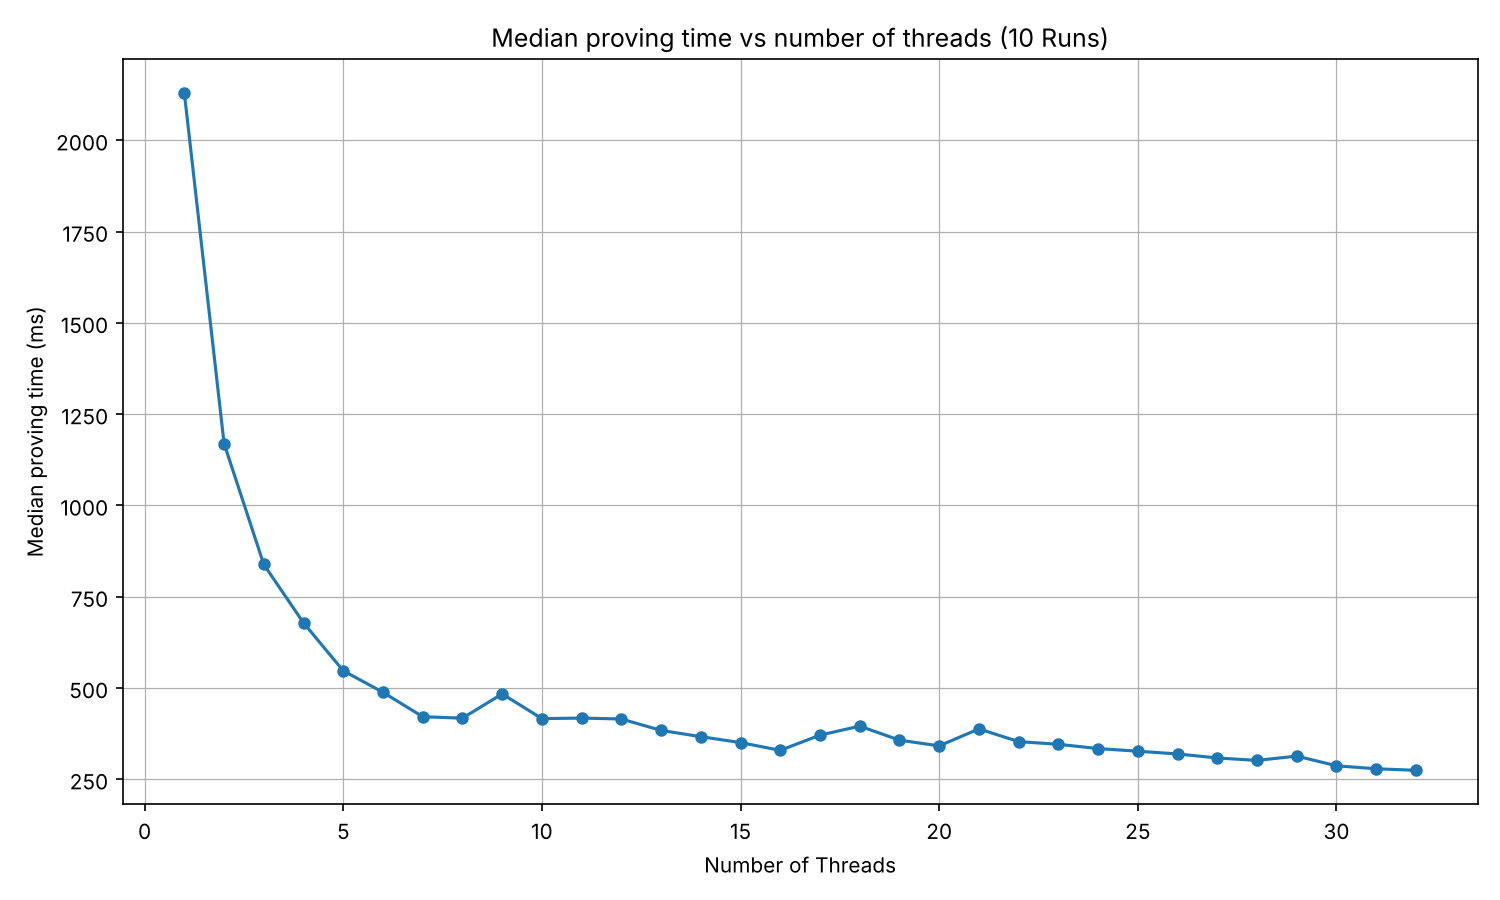
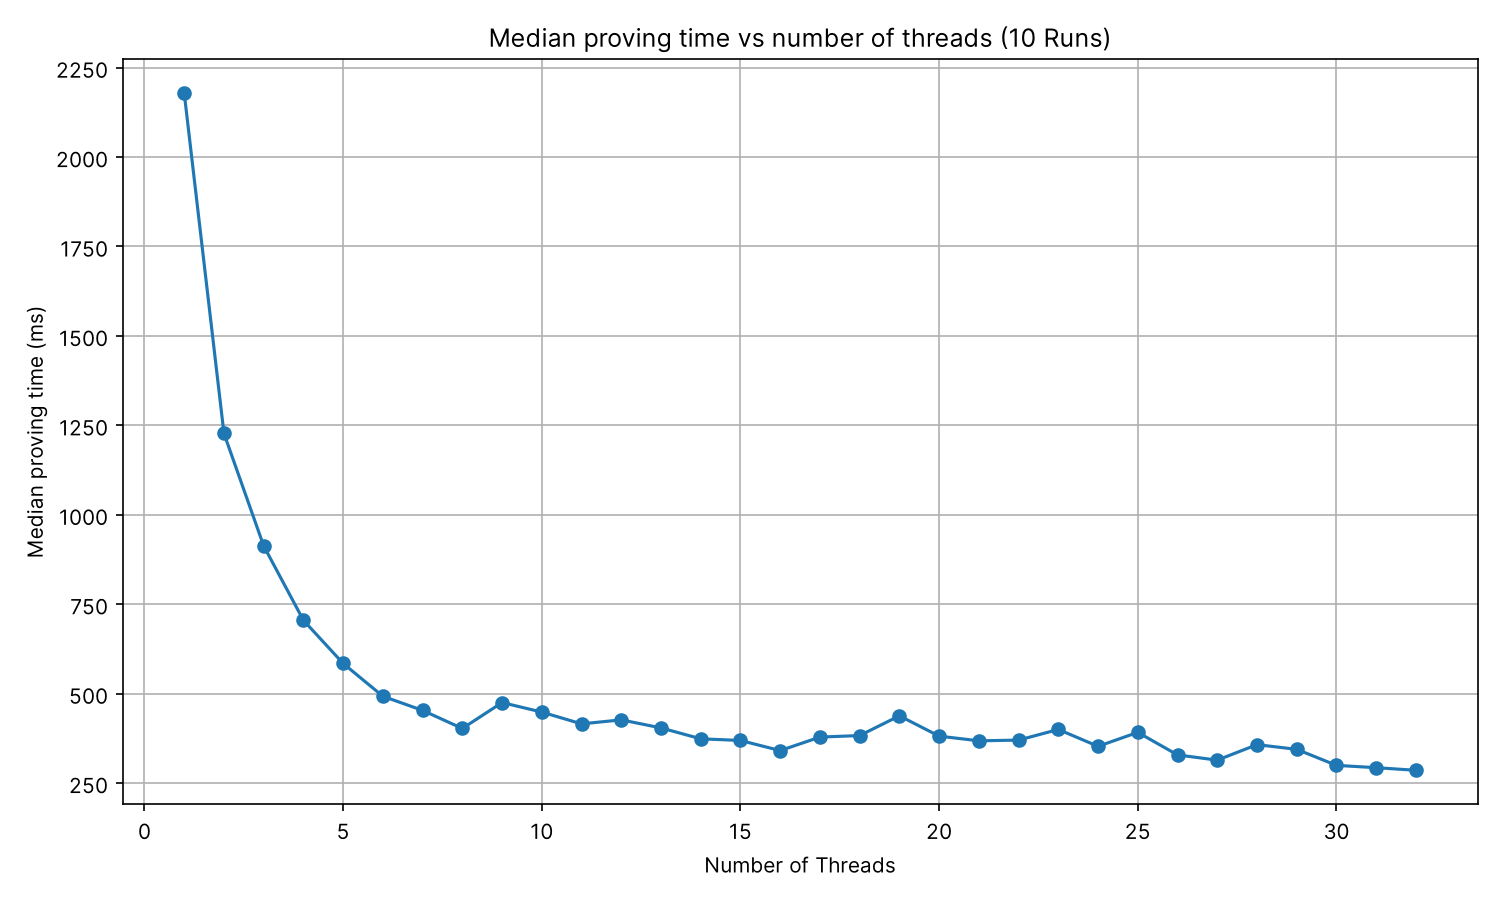
docs(blockchain): ZkProgramSpend proving time measured on the circuit with the program output flags

diff --git a/docs/blockchain/raw/rfc/RFC-481-mantle-programs-governing-channel-notes.md b/docs/blockchain/raw/rfc/RFC-481-mantle-programs-governing-channel-notes.md
@@ -112,7 +112,7 @@ Validation of a program step, in order:
 
 The openings serve only the availability of the state of the program. They sit in the proof of the step, outside the `op_id` and the transaction hash, the ledger keeps nothing from them, and they are prunable: a block whose openings were pruned is validated without them.
 
-The `ZkProgramSpend` is the ZkTransfer with program checks: its inputs are notes of `program_id`, its outputs are notes of `program_id` or user notes, `spend_notes_hash` commits to the active flag and the note of every input and output, nonce included, so that a program can constrain the nonces its sequencer picks, and `sum(inputs_value) + paid_value == sum(outputs_value)`. Its used inputs and outputs are marked by the public flags `inputs_active` and `outputs_active`, set from the published lists as in the ZkTransfer, and its outputs of the program by the public flags `outputs_of_program`, set from `program_outputs`. It is proven by the sequencer. The circuit (`program_spend` in [logos-blockchain-circuits](https://github.com/logos-blockchain/logos-blockchain-circuits)) has 69,377 constraints and proves in about 2.1 s on one thread and 0.3 s on 32 threads (see the Mantle benchmark).
+The `ZkProgramSpend` is the ZkTransfer with program checks: its inputs are notes of `program_id`, its outputs are notes of `program_id` or user notes, `spend_notes_hash` commits to the active flag and the note of every input and output, nonce included, so that a program can constrain the nonces its sequencer picks, and `sum(inputs_value) + paid_value == sum(outputs_value)`. Its used inputs and outputs are marked by the public flags `inputs_active` and `outputs_active`, set from the published lists as in the ZkTransfer, and its outputs of the program by the public flags `outputs_of_program`, set from `program_outputs`. It is proven by the sequencer. The circuit (`program_spend` in [logos-blockchain-circuits](https://github.com/logos-blockchain/logos-blockchain-circuits)) has 69,377 constraints and proves in about 2.2 s on one thread and 0.3 s on 32 threads (see the Mantle benchmark).
 
 ## 3. What enforces what
 
